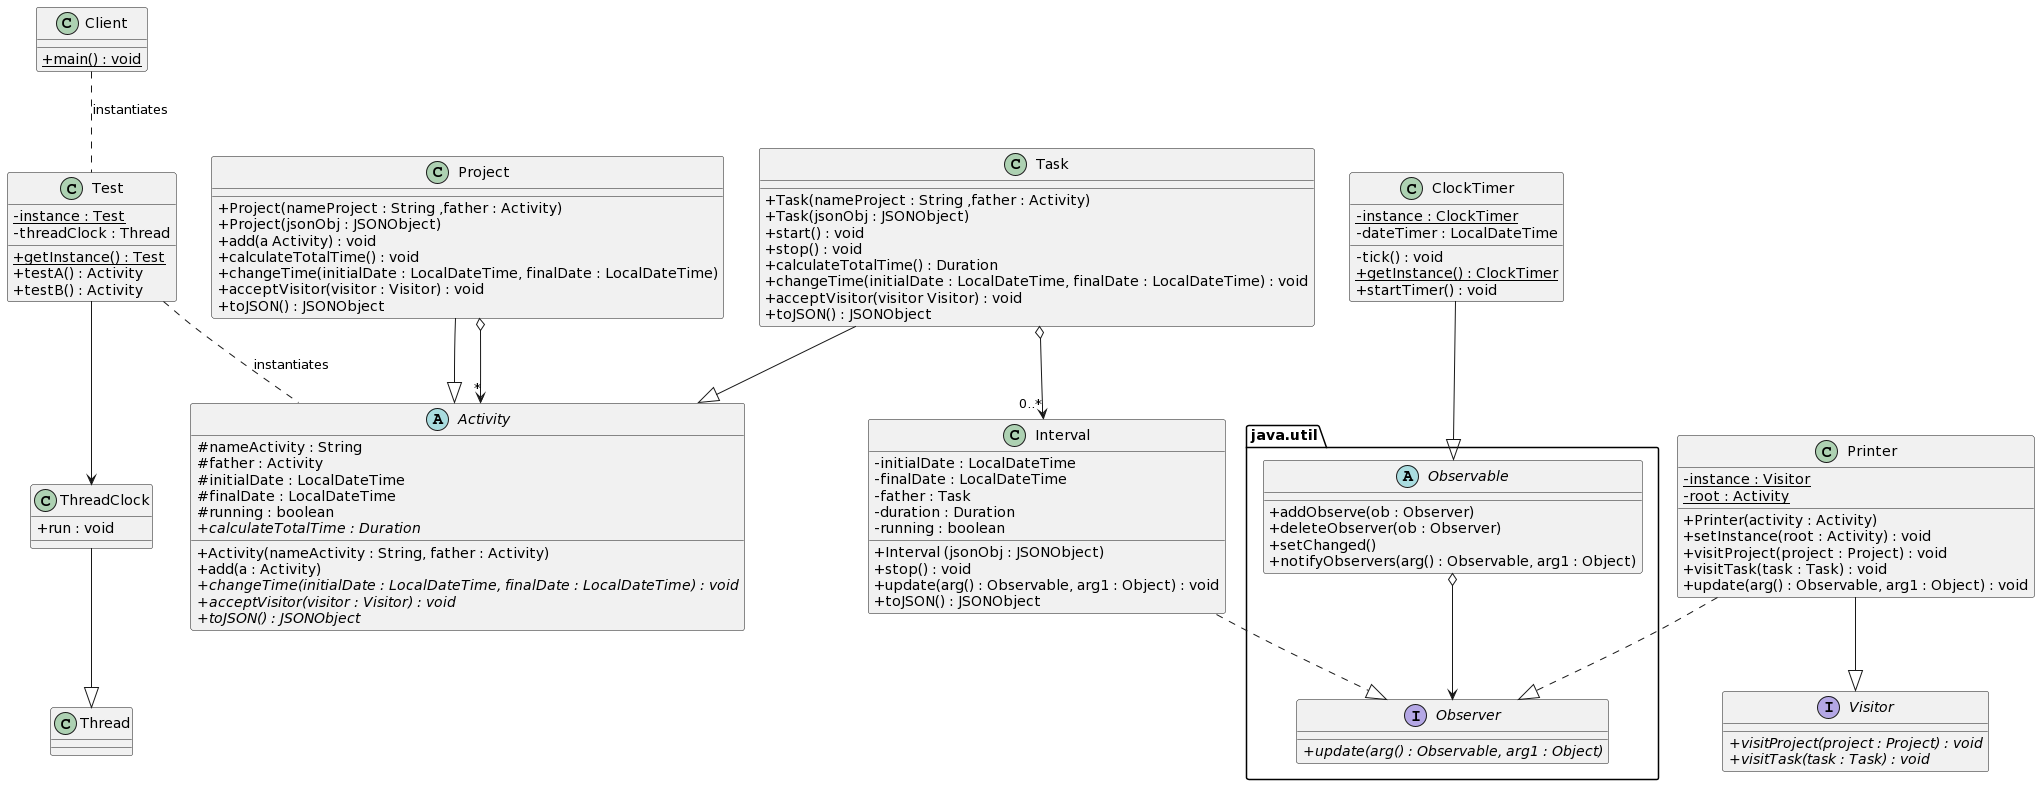
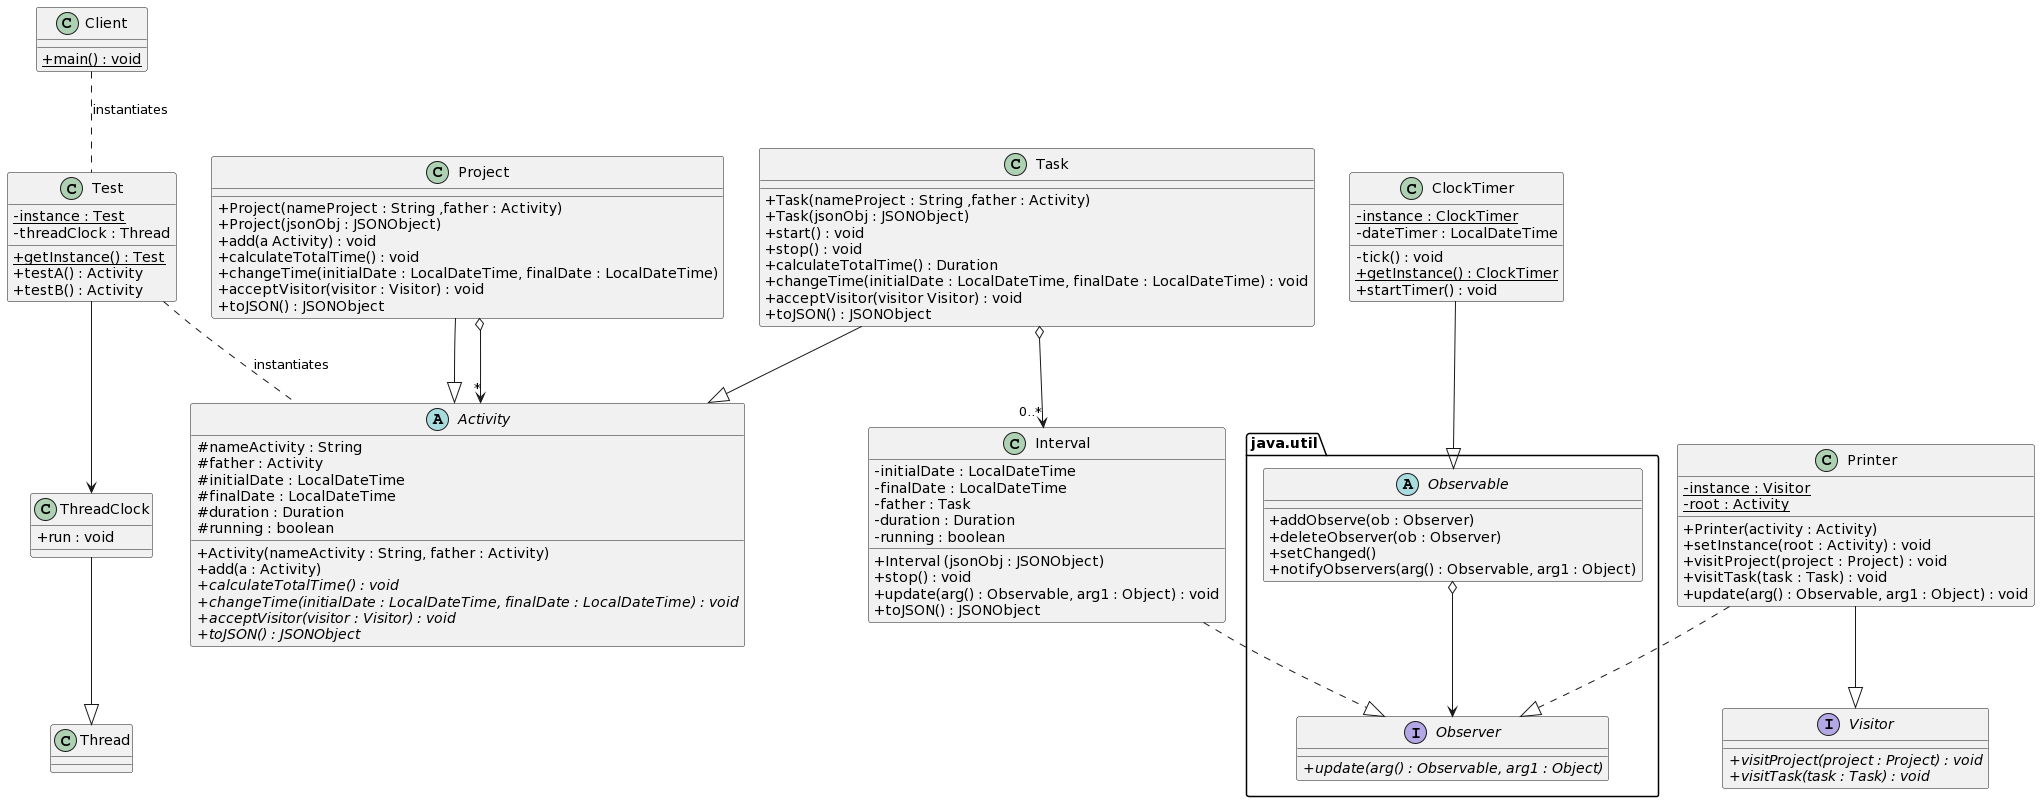
Versión 5.5: se ha añadido al JSON el duration

diff --git a/PracticaDS/src/Test.java b/PracticaDS/src/Test.java
@@ -1,3 +1,10 @@
+import org.json.JSONObject;
+
+import java.io.FileWriter;
+import java.io.IOException;
+import java.nio.file.Files;
+import java.nio.file.Paths;
+
 /*The test class contains all the tests necessary to check the correct functionality of the
 Time Tracker program.*/
 public class Test {
@@ -41,16 +48,15 @@ public class Test {
         //ClockTimer.getInstance().startTimer();
 
         /*
-        String jsonPath = "activitiesJSON.json";
-        Project root = new Project();
+        String jsonPath = "activityJSON.json";
+        Project root1 = new Project();
         try{
             String jsonString = new String((Files.readAllBytes(Paths.get(jsonPath))));
             JSONObject jsonObj = new JSONObject(jsonString);
-            root = new Project(jsonObj);
+            root1 = new Project(jsonObj);
         } catch (IOException e){
             e.printStackTrace();
-        }
-        */
+        }*/
 
         Project root = new Project("root", null);
         Project p1 = new Project("software design", root);
@@ -99,8 +105,8 @@ public class Test {
             file.write(root.toJSON().toString());
         }catch (IOException e){
             e.printStackTrace();
-        }
-        */
+        }*/
+
 
         return root;
     }

diff --git a/PracticaDS/src/Task.java b/PracticaDS/src/Task.java
@@ -28,6 +28,7 @@ public class Task extends Activity{
         else
             finalDate = null;
 
+        duration = Duration.parse(jsonObj.getString("duration"));
         running = jsonObj.getBoolean("running");
 
         JSONArray jsonList = jsonObj.getJSONArray("intervalList");
@@ -84,7 +85,9 @@ public class Task extends Activity{
         visitor.visitTask(this);
     }
 
-    public JSONObject toJSON(){
+    public JSONObject toJSON()/*It is a function used to write the task data in a JSON file so that
+    it can be loaded in the future.*/
+    {
 
         JSONObject compJSON = new JSONObject();
         compJSON.put("nameActivity", nameActivity);
@@ -104,6 +107,7 @@ public class Task extends Activity{
             compJSON.put("finalDate", tempDate);
         }
 
+        compJSON.put("duration", duration.toString());
         compJSON.put("running", running);
 
         JSONArray ja = new JSONArray();
@@ -113,6 +117,5 @@ public class Task extends Activity{
 
         compJSON.put("intervalList",ja);
         return compJSON;
-    } /*It is a function used to write the task data in a JSON file so that
-    it can be loaded in the future.*/
+    }
 }

diff --git a/PracticaDS/src/Project.java b/PracticaDS/src/Project.java
@@ -36,7 +36,7 @@ public class Project extends Activity{
         else
             finalDate = null;
 
-
+        duration = Duration.parse(jsonObj.getString("duration"));
         running = jsonObj.getBoolean("running");
 
         JSONArray jsonList = jsonObj.getJSONArray("activityList");
@@ -129,7 +129,7 @@ public class Project extends Activity{
             compJSON.put("finalDate", tempDate);
         }
 
-
+        compJSON.put("duration", duration.toString());
         compJSON.put("running", running);
 
         JSONArray ja = new JSONArray();

diff --git a/PracticaDS/src/Activity.java b/PracticaDS/src/Activity.java
@@ -49,7 +49,7 @@ public abstract class Activity{
     {
         return finalDate;
     }
-    public Duration getDuration() { return duration; }
+    public Duration getDuration() {  return duration; }
     public abstract boolean getRunning();
     public abstract Object getIList(int i);
     public abstract int getSizeList();
